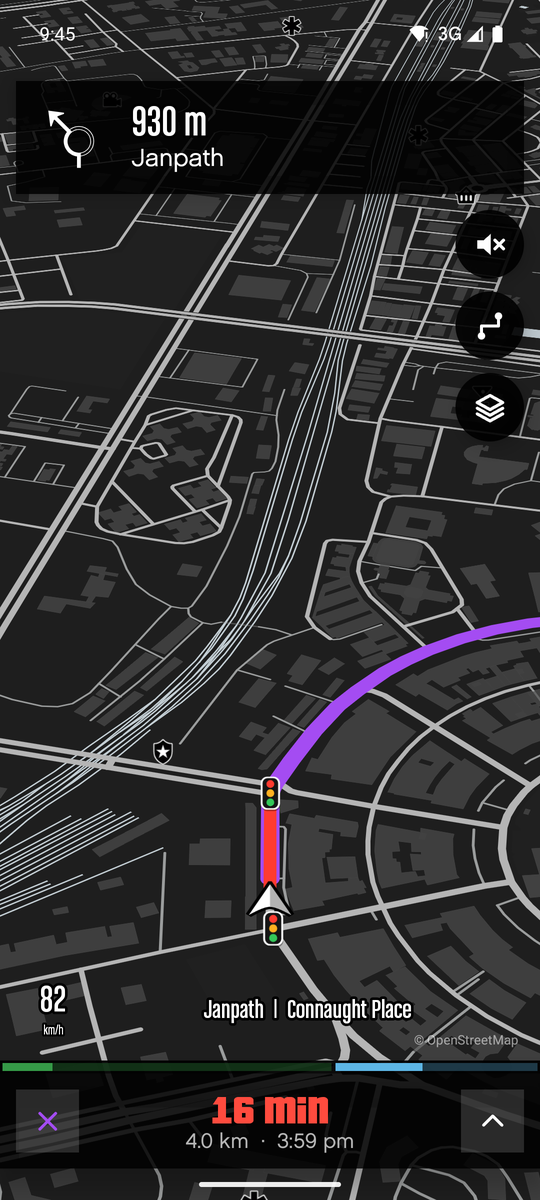
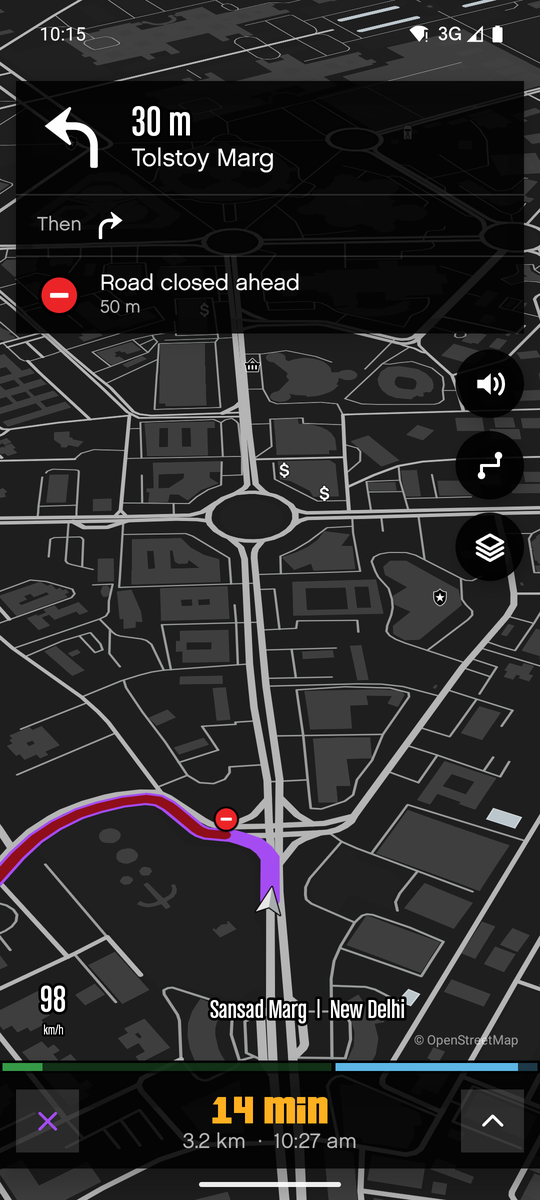
README: GTA VI, new car and phone shots
Car shots now come from the emulator at the Curvv's 1920x720: GTA V at a 40 km/h stretch, Red
Dead, and GTA VI by day and night. Phone shots show each world driving, the GTA V route preview,
the Red Dead map and the GTA VI Settings. The text covers the speed above the time card, the
blips, the route edge, the sun-following map, grouped Settings and make_pucks.py.

diff --git a/tools/readme_hero.py b/tools/readme_hero.py
@@ -1,10 +1,11 @@
 """Render docs/readme/hero.png (1600x820) for the README from the real screenshots in docs/readme.
 
-The screenshots themselves are captured by hand: the car shots from the Desktop Head Unit
-(tools/dhu/tata_curvv.ini, cropped to the 1920x720 screen), the phone shots from the emulator
-(`emulator -avd overworld -gpu host`, status bar in demo mode, test drives via DebugDriveReceiver).
+The screenshots themselves are captured by hand on the emulator (`emulator -avd overworld -gpu host`,
+test drives via DebugDriveReceiver, never near home): the car shots in the debug-only
+CarPreviewActivity at the Curvv's 1920x720 and 200 dpi, scaled to 1440x540; the phone shots with the
+status bar in demo mode, scaled to 540x1200.
 
-Usage: python tools/readme_hero.py   (needs Playwright with Chrome)
+Usage: python tools/readme_hero.py   (needs Playwright with Microsoft Edge)
 """
 from pathlib import Path
 
@@ -38,10 +39,10 @@ h1 {{ font-family: BarlowCondensed; font-weight: 400; font-size: 96px; line-heig
     <img class="icon" src="{ICON.as_uri()}">
     <h1>Overworld<br>Maps</h1>
     <p class="lead">Real roads, drawn like an <span style="white-space: nowrap">open-world game map.</span></p>
-    <p class="meta"><b>GTA V</b> and <b>Red Dead 2</b> worlds<br>Android Auto first, phone too</p>
+    <p class="meta"><b>GTA V</b>, <b>Red Dead 2</b> and <b>GTA VI</b> worlds<br>Android Auto first, phone too</p>
   </div>
   <div class="cars">
-    <img class="car" src="{(SHOTS / "car-gta-city.png").as_uri()}">
+    <img class="car" src="{(SHOTS / "car-gta6.png").as_uri()}">
     <img class="car" src="{(SHOTS / "car-rdr.png").as_uri()}">
   </div>
 </div></body></html>"""
@@ -52,7 +53,7 @@ def main():
     page_file.write_text(HTML, encoding="utf-8")
     try:
         with sync_playwright() as p:
-            browser = p.chromium.launch(channel="chrome")
+            browser = p.chromium.launch(channel="msedge")
             page = browser.new_page(viewport={"width": 1600, "height": 820})
             page.goto(page_file.as_uri())
             page.wait_for_load_state("networkidle")

diff --git a/README.md b/README.md
@@ -3,7 +3,7 @@
 </p>
 
 <p align="center">
-  <strong>Turn-by-turn navigation on real roads, drawn like the map in GTA V or Red Dead Redemption 2.</strong><br>
+  <strong>Turn-by-turn navigation on real roads, drawn like the map in GTA V, Red Dead Redemption 2 or GTA VI.</strong><br>
   Built for Android Auto on a car's wide screen, with the same worlds on the phone.
 </p>
 
@@ -28,7 +28,7 @@
 
 ## Why Overworld Maps
 
-Games have spent twenty years making maps people want to look at. Car navigation still draws grey lines on beige. Overworld Maps draws the real roads under your car in the style of a game's map and HUD: GTA V's near-black pause map with its purple waypoint route, or Red Dead's parchment and ink with a red trail.
+Games have spent twenty years making maps people want to look at. Car navigation still draws grey lines on beige. Overworld Maps draws the real roads under your car in the style of a game's map and HUD: GTA V's near-black pause map with its purple waypoint route, Red Dead's parchment and ink with a red trail, or GTA VI's pale sat-nav minimap with raised buildings and a pink route.
 
 It is a personal project, built first for one car: a Tata Curvv with a 10.25-inch 1920x720 HARMAN screen and wireless Android Auto. The phone app covers everything else, down to a ride on the bike.
 
@@ -36,17 +36,21 @@ It is a personal project, built first for one car: a Tata Curvv with a 10.25-inc
 |---|---|---|
 | **GTA V** | The pause map: near-black land, flat grey roads, ice-pale water, no labels, the game's shop blips, a flat waypoint-purple route, a scale bar and area name in the corner. GTA menus and HUD. | Ready |
 | **Red Dead 2** | Parchment and ink: ink roads, dotted railways, pencil place names, hatched forest, paper grain, a red route. Red Dead menus and HUD. | Ready |
-| **GTA VI** | Night-navy land, sand boulevards, a coral route. | Waiting for the game's real map UI |
+| **GTA VI** | The minimap from Rockstar's 2026 Extended Look: pale warm-grey ground, broad roads with lane dashes, raised 3D buildings, grey-teal water, no names, and a pink route that fades in just ahead of the marker. It follows the sun: dim and warm at golden hour, violet slate at night. Rounded dark-glass HUD. | Ready |
 | **Next** | Minecraft, Genshin Impact, Fortnite OG, Zelda: Breath of the Wild, Cyberpunk 2077. | Planned |
 
 ## Screenshots
 
-**In the car** (Android Auto, 1920x720):
+**In the car** (the Curvv's 1920x720 screen; Android Auto adds its own buttons at the right):
 
 <table>
   <tr>
-    <td align="center"><img src="docs/readme/car-gta-limit.png" width="420" alt="GTA V world on the car screen, over the speed limit"><br><sub>GTA V: over the limit, the sign turns red</sub></td>
+    <td align="center"><img src="docs/readme/car-gta-limit.png" width="420" alt="GTA V world on the car screen, over the speed limit"><br><sub>GTA V: over the limit, the speed and the sign turn red</sub></td>
     <td align="center"><img src="docs/readme/car-rdr.png" width="420" alt="Red Dead world on the car screen"><br><sub>Red Dead 2: the same drive in ink</sub></td>
+  </tr>
+  <tr>
+    <td align="center"><img src="docs/readme/car-gta6.png" width="420" alt="GTA VI world on the car screen, with raised buildings"><br><sub>GTA VI: raised buildings, a pink route</sub></td>
+    <td align="center"><img src="docs/readme/car-gta6-night.png" width="420" alt="GTA VI world on the car screen at night"><br><sub>GTA VI after dark: the map follows the sun</sub></td>
   </tr>
 </table>
 
@@ -58,21 +62,23 @@ It is a personal project, built first for one car: a Tata Curvv with a 10.25-inc
     <td align="center"><img src="docs/readme/phone-gta-preview.png" width="160" alt="Route preview with live traffic"><br><sub>Route preview, live traffic</sub></td>
     <td align="center"><img src="docs/readme/phone-gta-drive.png" width="160" alt="Driving in the GTA V world"><br><sub>Driving: GTA V</sub></td>
     <td align="center"><img src="docs/readme/phone-rdr-drive.png" width="160" alt="Driving in the Red Dead world"><br><sub>Driving: Red Dead 2</sub></td>
-    <td align="center"><img src="docs/readme/phone-rdr-settings.png" width="160" alt="Settings as the game's pause menu"><br><sub>Settings is the pause menu</sub></td>
+    <td align="center"><img src="docs/readme/phone-gta6-drive.png" width="160" alt="Driving in the GTA VI world"><br><sub>Driving: GTA VI</sub></td>
+    <td align="center"><img src="docs/readme/phone-gta6-settings.png" width="160" alt="Settings as the game's pause menu"><br><sub>Settings is the pause menu</sub></td>
   </tr>
 </table>
 
 ## Features
 
-- **The car screen comes first.** Our HUD owns the left of the Android Auto screen and Android Auto keeps the right: the turn card with "Then" and road alerts top-left, the time card with the speedometer and speed-limit sign bottom-left, the street name along the bottom. The route preview is a themed card with Start and Cancel drawn in the game's style.
+- **The car screen comes first.** Our HUD owns the left of the Android Auto screen and Android Auto keeps the right: the turn card with "Then" and road alerts top-left, the time card bottom-left with the speedometer standing on it and the speed-limit sign beside it, the street name along the bottom. The route preview is a themed card with Start and Cancel drawn in the game's style.
 - **Free drive.** With no trip the car map still follows you heading-up and glides between GPS fixes, with your speed and camera alerts, like Google Maps' free drive.
 - **Find places on the car screen.** Search (Android Auto's keyboard while parked) and **Nearby**: petrol and CNG, food, parking, toilets, hospitals and hotels, closest first.
 - **Places Google knows.** Search finds Indian places first (TomTom's business listings and OpenStreetMap), reads plus codes like `F5QR+3F New Delhi` from any Google Maps page, and takes a place shared from Google Maps (Share > Overworld) for the ones only Google has.
-- **The route behaves like the games'.** The road already driven disappears behind the marker, as on GTA V's radar and Red Dead's minimap.
+- **The route behaves like the games'.** The road already driven disappears behind the marker, as on GTA V's radar and Red Dead's minimap; GTA VI's fades in just ahead of it. The markers are drawn small, the way the games draw their blips.
 - **Traffic only where it matters.** Like Google's route line: amber where slow, red for jams, darkest where closed, and only on your route. Traffic on every road is one switch away in Layers, off by default.
 - **Road alerts.** Traffic lights on the route, speed cameras ahead (every kind OpenStreetMap has, plus the ones you mark with **+ Cam** while driving, and an optional beep), and accidents, road works and closures that run along the route (not side streets it crosses), with how much time the traffic adds.
-- **Speed-limit signs for each world**, turning red at 5 km/h over.
-- **Google Maps layout, game look.** Search, Home, Work and Saved, a place sheet, a route preview, a Layers sheet with theme cards. Settings is the game's pause menu.
+- **Speed-limit signs for each world**, turning red at 5 km/h over, along with the speed.
+- **GTA VI follows the sun.** Its map is pale by day, warm at golden hour and violet at night, worked out from where you are, or held at one in Settings. Its buildings stand up in 3D; a Layers switch lays them flat.
+- **Google Maps layout, game look.** Search, Home, Work and Saved, a place sheet, a route preview, a Layers sheet with theme cards. Settings is the game's pause menu, in four groups (map, driving, places, about); anything that forgets a place asks for a second tap.
 - **Navigation requests in the car.** When Android Auto hands Overworld a destination ("navigate to India Gate", or an address from a message), it drives there, by place name or by coordinates, even with a trip already running.
 - **Made for Indian roads.** Metric, a 12-hour clock, and turn arrows for left-hand traffic: roundabouts circle clockwise and U-turns curl right.
 - **Costs nothing to run.** OpenFreeMap tiles, public routing and search, and an optional free TomTom key for traffic.
@@ -110,9 +116,9 @@ flowchart LR
 
 ## Game fonts and art
 
-The games' own fonts (Pricedown, Chalet, RDR Lino, RDR Catalogue, Hapna Slab Serif) and Rockstar's map blips are commercial or Rockstar Games property, so they are **not in this repository**. The app loads them from `android/app/src/local/` when that folder exists (it's gitignored) and otherwise uses free stand-ins with similar shapes: Barlow, Barlow Condensed, Passion One, Chakra Petch and IM FELL English, with redrawn vector icons. A clone builds and runs; it just looks a little less like the games. The screenshots above come from the author's build, which has them.
+The games' own fonts (Pricedown, Chalet, RDR Lino, RDR Catalogue, Hapna Slab Serif) and Rockstar's map blips are commercial or Rockstar Games property, so they are **not in this repository**. The app loads them from `android/app/src/local/` when that folder exists (it's gitignored) and otherwise uses free stand-ins with similar shapes: Barlow, Barlow Condensed, Passion One and IM FELL English, with redrawn vector icons. A clone builds and runs; it just looks a little less like the games. The screenshots above come from the author's build, which has them. GTA VI's interface is set in Inter and Barlow Condensed, both open fonts, so it looks the same in every build.
 
-The speed-limit signs and the app icon are the author's own artwork.
+The speed-limit signs, the player markers and the app icon are the author's own artwork.
 
 ## Build it
 
@@ -159,9 +165,11 @@ adb shell am broadcast -n com.thealgothrim.overworld.debug/com.thealgothrim.over
 
 The drive starts where the phone is. Add `--ef from_lat 28.6315 --ef from_lng 77.2167` to start somewhere else, here on Connaught Place's Outer Circle, a good test for roundabouts. `--es query "India%sGate"` drives to a place by name, the way a request from Android Auto arrives, and `--ez test false` makes it a real trip on the phone's GPS. `-a com.thealgothrim.overworld.DEBUG_STATE` logs what the app holds (trip, simulator, route extras, voice) under the `DebugDrive` tag.
 
-**Tests** (`android/app/src/androidTest`, need a phone or emulator with internet): real Delhi and Chandigarh routes run through Android Auto's builders step by step, navigation requests in every link form, trips stopped as they start, search and Nearby on the car screen, and the car screen itself. `.\gradlew.bat :app:testDebugUnitTest` checks plus codes, typed coordinates and Google Maps links without a device. Run them on an emulator, since `connectedDebugAndroidTest` uninstalls the app afterwards. Put the emulator in Delhi first (`adb emu geo fix 77.2167 28.6315`); by default it thinks it's in California. Then install both APKs from `assembleDebug assembleDebugAndroidTest` and run `adb shell am instrument -w com.thealgothrim.overworld.debug.test/androidx.test.runner.AndroidJUnitRunner`.
+**Tests** (`android/app/src/androidTest`, need a phone or emulator with internet): real Delhi and Chandigarh routes run through Android Auto's builders step by step, navigation requests in every link form, trips stopped as they start, search and Nearby on the car screen, and the car screen itself. `.\gradlew.bat :app:testDebugUnitTest` checks plus codes, typed coordinates, Google Maps links and the sun times behind GTA VI's day and night without a device. Run them on an emulator, since `connectedDebugAndroidTest` uninstalls the app afterwards. Put the emulator in Delhi first (`adb emu geo fix 77.2167 28.6315`); by default it thinks it's in California. Then install both APKs from `assembleDebug assembleDebugAndroidTest` and run `adb shell am instrument -w com.thealgothrim.overworld.debug.test/androidx.test.runner.AndroidJUnitRunner`.
 
 Map icons and labels don't draw on the emulator's default software GPU. Start it on the computer's GPU: `emulator -avd <name> -gpu host`.
+
+To check a world's car screen without a head unit, debug builds have `CarPreviewActivity`: the car map and HUD in a plain window. Set an emulator to the Curvv's screen (`adb shell wm size 1920x720` and `adb shell wm density 200`), open it with `adb shell am start -n com.thealgothrim.overworld.debug/com.thealgothrim.overworld.CarPreviewActivity`, and start a test drive as above (`--es time night` holds GTA VI at night).
 
 ## Put it in the car
 
@@ -179,10 +187,10 @@ Internal app sharing (a link per upload, debug builds allowed) only works once t
 
 ```text
 android/              the app (Kotlin, Jetpack Compose, Android Auto)
-  app/src/main/       code, map styles, sprites, glyphs, speed-limit signs
+  app/src/main/       code, map styles, sprites, glyphs, speed-limit signs, player markers
   app/src/local/      game fonts and blips for personal builds (gitignored, optional)
 prototype/            web preview of the themes on a recorded Delhi drive; themes.js is the theme source
-tools/                style export, sprite, glyph, icon and sign builders, build script, DHU preset
+tools/                style export, sprite, glyph, icon, sign and marker builders, build script, DHU preset
 docs/readme/          the images on this page (tools/readme_hero.py draws the banner)
 licenses/             licence texts for the bundled fonts
 ```
@@ -194,23 +202,24 @@ licenses/             licence texts for the bundled fonts
 | `tools/make_glyphs.py` | Builds Red Dead's map-label fonts as MapLibre SDF glyphs |
 | `tools/make_icon.py` | Builds the adaptive app icon from the artwork in `tools/icon/` |
 | `tools/make_limit_signs.py` | Cuts the speed-limit sign sheets in `tools/signs/` into app drawables |
+| `tools/make_pucks.py` | Builds the player markers from the drawings in `tools/blips/`, centred and never stretched |
 | `tools/build-install.ps1` | Builds the debug APK and installs it |
 | `tools/make_route.py` | Re-records the prototype's demo route |
 
 ## Known limits
 
-- Tested on a Galaxy S24 Ultra and on the Desktop Head Unit at the Curvv's screen size. The first run in the real car is waiting on the Play step above.
+- Driven in the Curvv over wireless Android Auto and used on a Galaxy S24 Ultra; tested on the Desktop Head Unit and an emulator at the Curvv's screen size.
 - The public routing and search servers are fair-use: fine for one driver, not for a public app with many users.
 - OpenStreetMap knows few of Delhi's speed cameras (about 9 speed cameras and 40 enforcement cameras in the NCR core). Radarbot's list is its own and can't be used, so cameras you mark fill the gaps on your roads.
 - Small places only Google lists (a house, a small church) aren't in OpenStreetMap or TomTom. Share them from Google Maps, or type their plus code.
-- GTA V hides map labels, like the game's pause map. Red Dead's label glyphs cover Latin scripts only.
+- GTA V and GTA VI hide map labels, like the games' maps. Red Dead's label glyphs cover Latin scripts only.
 - No offline maps yet (OpenFreeMap has no India extract download; Protomaps PMTiles would be the way).
 - Android refuses the background location service if a trip starts while the app isn't on screen. The app then keeps navigating while the phone or car screen shows it, instead of crashing.
 - Contour lines like Red Dead's paper map aren't possible from OpenFreeMap, which has no contour layer.
 
 ## Credits
 
-Map data © OpenStreetMap contributors (ODbL). Tiles: OpenFreeMap, OpenMapTiles schema. Routing and traffic lights: Valhalla on the FOSSGIS server. Speed cameras: Overpass API. Live traffic (optional): TomTom. Search: Photon by komoot. Navigation: Ferrostar by Stadia Maps (BSD 3-Clause). Turn arrows: Mapbox Directions Icons (CC0). Fonts: Barlow, Barlow Condensed, Chakra Petch, IM FELL English, Passion One, Crimson Text, Merriweather, Raleway (SIL Open Font License) and Homemade Apple (Apache 2.0). Details in `THIRD_PARTY_NOTICES.txt` and `licenses/`.
+Map data © OpenStreetMap contributors (ODbL). Tiles: OpenFreeMap, OpenMapTiles schema. Routing and traffic lights: Valhalla on the FOSSGIS server. Speed cameras: Overpass API. Live traffic (optional): TomTom. Search: Photon by komoot. Navigation: Ferrostar by Stadia Maps (BSD 3-Clause). Turn arrows: Mapbox Directions Icons (CC0). Fonts: Barlow, Barlow Condensed, Inter, IM FELL English, Passion One, Crimson Text, Merriweather, Raleway (SIL Open Font License) and Homemade Apple (Apache 2.0). Details in `THIRD_PARTY_NOTICES.txt` and `licenses/`.
 
 Overworld Maps is a fan project. It is not affiliated with or endorsed by Rockstar Games or Take-Two Interactive. Grand Theft Auto and Red Dead Redemption are their trademarks, named here only to say which game each look is modelled on.
 
